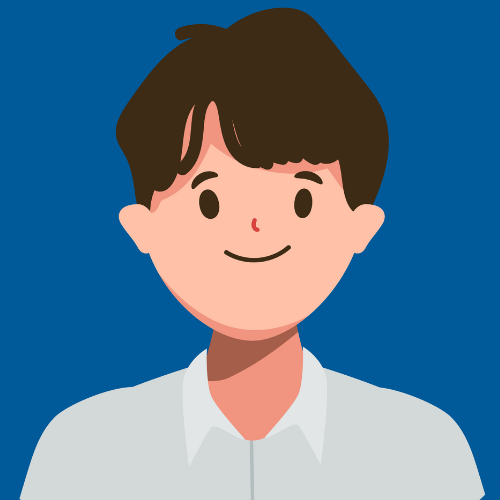
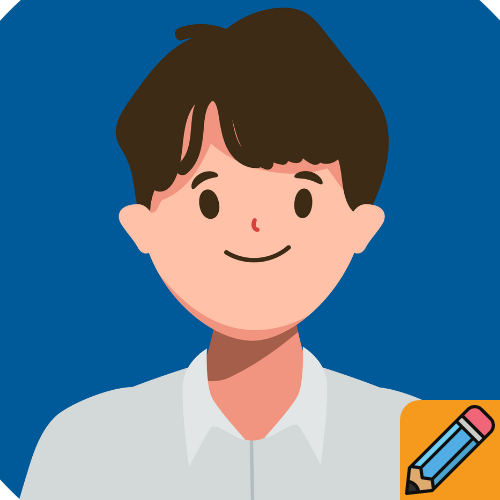
Finalised Achievements, Sign Up bug fixes
Finalised Profile page and Achievements component.

Design Achievement badges and uploaded to Firebase storage under /achievements. Added "pencil" icon to defaultProfilePicture design.

Sign-up page bug fixes, turn off case sensitivity for emails causing unintended mismatch, fixed visual issues on smaller devices for Name fields.

diff --git a/src/components/Achievements.tsx b/src/components/Achievements.tsx
@@ -1,45 +1,187 @@
-import React from "react";
-import { useTheme } from "./ThemeContext";
+import React, { useEffect, useState } from 'react';
+import { useTheme } from './ThemeContext';
 import { useAuthState } from "react-firebase-hooks/auth";
 import { auth, db } from "@/app/firebase/config";
-import { doc, setDoc, getDoc } from "firebase/firestore";
-import { User } from "firebase/auth";
-import { toast, ToastContainer } from "react-toastify";
-import { FaStar } from "react-icons/fa";
+import { doc, setDoc, getDoc, DocumentData } from "firebase/firestore";
+import { storage } from '@/app/firebase/config'; 
+import { ref, getDownloadURL } from 'firebase/storage';
+import { User } from 'firebase/auth';
+import Image from "next/image";
+
+const TOTAL_ACHIEVEMENTS = 13;
+
+const ACHIEVEMENTS = [
+  "createdAccount",
+  "tryToggleTheme",
+  "visitedAbout",
+  "visitedPrices",
+  "visitedPlayground",
+  "visitedNews",
+  "visitedLearn",
+  "visitedProfile",
+  "learnBTC",
+  "learnETH",
+  "learnXRP",
+  "learnBNB",
+  "learnCRO"
+];
+
+const ACHIEVEMENTS_TITLE : { [key: string]: string } = {
+  createdAccount: "PaperHans Allegiance",
+  tryToggleTheme: "Bravo Six, Going Dark",
+  visitedAbout: "Oh So Inspiring",
+  visitedPrices: "Stonks",
+  visitedPlayground: "Having Fun",
+  visitedNews: "The Noose",
+  visitedLearn: "Smarty Pants",
+  visitedProfile: "Who Are You?",
+  learnBTC: "BTC Expert",
+  learnETH: "ETH Expert",
+  learnXRP: "XRP Expert",
+  learnBNB: "BNB Expert",
+  learnCRO: "CRO Expert"
+};
+
+const ACHIEVEMENTS_DESCRIPTION : { [key: string]: string } = {
+  createdAccount: "Create a PaperHans Account.",
+  tryToggleTheme: "Try the Toggle Theme feature.",
+  visitedAbout: "Visit the About Us page.",
+  visitedPrices: "Visit the Prices page.",
+  visitedPlayground: "Visit the Playground page.",
+  visitedNews: "Visit the News page.",
+  visitedLearn: "Visit the Learn page.",
+  visitedProfile: "Visit the Profile page.",
+  learnBTC: "Complete the BTC lesson.",
+  learnETH: "Complete the ETH lesson.",
+  learnXRP: "Complete the XRP lesson.",
+  learnBNB: "Complete the BNB lesson.",
+  learnCRO: "Complete the CRO lesson."
+};
 
 const Achievements = () => {
   const { theme } = useTheme();
+  const [ user ] = useAuthState(auth)
+  const [ images, setImages ] = useState<{ [key: string]: string }>({});
+  const [ achievementsData, setAchievementsData ] = useState<DocumentData>();
 
-  const [user] = useAuthState(auth);
+  useEffect(() => {
+    const fetchImages = async () => {
+      const imageUrls: { [key: string]: string } = {};
+      for (const ach of ACHIEVEMENTS) {
+        try {
+        const storageRef = ref(storage, `achievements/${ach}.png`);
+        const url = await getDownloadURL(storageRef);
+        if (url)
+          imageUrls[ach] = url;
+        } catch (error) {
+          console.error('Error fetching image URL:', error);
+        }
+      }
+      setImages(imageUrls);
+    };
 
-  return (
-    <div
-      className={`p-4 rounded shadow-md w-full max-w-[30rem] ${
-        theme === "dark" ? "bg-gray-800 text-white" : "bg-white text-gray-800"
-      }`}
-    >
-      <h1 className="text-xl font-bold mb-4">TEMPORARY</h1>
-      <h1>TEMPORARY</h1>
+    const fetchAchievements = async () => {
+      try {
+        if (user) {
+          const achievementsDocRef = doc(db, "achievements", user.uid);
+          const achievementsDoc = await getDoc(achievementsDocRef);
+          if(achievementsDoc.exists()) {
+            const achievementsData = achievementsDoc.data()
+            console.log('Achievements Data:', achievementsData);
+            setAchievementsData(achievementsData)
+          }
+        }
+      } catch (error) {
+        console.error('Error fetching Achievements Data', error);
+      }
+    }
+
+    fetchImages();
+    fetchAchievements();
+  }, [user]);
+
+  return (<>
+  {/* HEADER */}
+    <div className={`p-4 rounded shadow-md w-full max-w-[30rem] ${theme === 'dark' ? 'bg-gray-800 text-white' : 'bg-white text-gray-800'}`}>
+      <div className="flex flex-col items-center">
+        <h1 className="text-3xl font-bold">
+          Achievements
+        </h1>
+        <div className="flex flex-row items-center space-x-2">
+          <h2 className="text-lg font-md">
+            Completed <strong>{achievementsData ? achievementsData.nAchievements : "Error Loading Data"} / {TOTAL_ACHIEVEMENTS}</strong>
+          </h2>
+        </div>
+      </div>
+
+      {/* ACHIEVEMENTS */}
+      {ACHIEVEMENTS.map((achievement) => (
+      <>
+        <div className="h-2"></div>
+        <div className={`p-4 rounded shadow-md w-full max-w-[30rem] ${theme === 'dark' ? 'bg-gray-700 text-white' : 'bg-gray-200 text-gray-800'}`}>
+          <div className="flex items-center space-x-5">
+            {achievementsData ? (
+              achievementsData[achievement] ? (
+              <>
+                <div className="relative w-24 h-24 overflow-hidden rounded-md">
+                  <Image src={images[achievement] || "/images/imageNotFound.png"} alt="Achievement Image" fill style={{ objectFit: 'cover'}}/>
+                </div>
+                
+                <div className="flex flex-col items-left">
+                      <h1 className="text-2xl font-bold">
+                      {ACHIEVEMENTS_TITLE[achievement]}
+                      </h1>
+                      <div className="flex flex-row items-center space-x-2">
+                        <h2 className="text-lg font-md">
+                          {ACHIEVEMENTS_DESCRIPTION[achievement]}
+                        </h2>
+                      </div>
+                      <h3 className="text-md font-md text-green-600">
+                        COMPLETED
+                      </h3>
+                </div>
+              </>):(
+              <>
+                <div className="relative w-24 h-24 overflow-hidden rounded-md">
+                  {images[achievement]?
+                    <Image src={images[achievement]} alt="Achievement Locked Image" fill style={{ objectFit: 'cover', filter: 'grayscale(100%)' }}/>
+                  :
+                    <Image src={"/images/imageNotFound.png"} alt="Achievement Locked Image" fill style={{ objectFit: 'cover' }}/>
+                  }
+                </div>
+                
+                <div className="flex flex-col items-left">
+                      <h1 className="text-2xl font-bold">
+                        {ACHIEVEMENTS_TITLE[achievement]}
+                      </h1>
+                      <div className="flex flex-row items-center space-x-2">
+                        <h2 className="text-lg font-md">
+                          {ACHIEVEMENTS_DESCRIPTION[achievement]}
+                        </h2>
+                      </div>
+                      <h3 className="text-md font-md text-red-600">
+                        ACHIEVEMENT LOCKED
+                      </h3>
+                </div>
+              </>)
+            ):(
+            <>
+              <h1 className="text-3xl font-bold text-red-600">
+                ERROR LOADING ACHIEVEMENTS: CHECK DATA
+              </h1>
+            </>)}
+          </div>
+        </div>
+      </>))}
     </div>
-  );
+    <div className="h-4"></div>
+  </>)
 };
 
-export const AchievementsHelper = async (user: User, achievement: string) => {
-  const achievementText: { [key: string]: string } = {
-    createdAccount: "Create a PaperHans Account.",
-    tryToggleTheme: "Try Toggle Theme.",
-    visitedAbout: "Visit About Us page.",
-    visitedPrices: "Visit Prices page.",
-    visitedPlayground: "Visit Playground page.",
-    visitedNews: "Visit News page.",
-    visitedProfile: "Visit Profile page.",
-    learnBTC: "Complete BTC lesson.",
-    learnETH: "Complete ETH lesson.",
-    learnXRP: "Complete XRP lesson.",
-    learnBNB: "Complete BNB lesson.",
-    learnCRO: "Complete CRO lesson.",
-  };
+export default Achievements;
 
+export const AchievementsHelper = async (user : User, achievement : string) => {
+  
   try {
     if (user) {
       const achievementsDocRef = doc(db, "achievements", user.uid);
@@ -54,6 +196,7 @@ export const AchievementsHelper = async (user: User, achievement: string) => {
           visitedPrices: false,
           visitedPlayground: false,
           visitedNews: false,
+          visitedLearn: false,
           visitedProfile: false,
           learnBTC: false,
           learnETH: false,
@@ -65,21 +208,14 @@ export const AchievementsHelper = async (user: User, achievement: string) => {
 
       const currentData = achievementsDoc.data();
       if (currentData && !currentData[achievement]) {
-        await setDoc(
-          achievementsDocRef,
-          {
-            ...currentData,
-            nAchievements: currentData ? currentData.nAchievements + 1 : 0,
-            [achievement]: true,
-          },
-          { merge: true }
-        );
-        toast.success("Achievement Unlocked! " + achievementText[achievement]);
+        await setDoc(achievementsDocRef, {
+          ...currentData,
+          nAchievements : (currentData ? currentData.nAchievements + 1 : 0),
+          [achievement]: true
+        }, { merge: true });
       }
     }
   } catch (e: any) {
     console.error(e);
   }
 };
-
-export default Achievements;

diff --git a/src/app/sign-up/page.tsx b/src/app/sign-up/page.tsx
@@ -7,8 +7,6 @@ import { useRouter } from "next/navigation";
 import { useTheme } from "../../components/ThemeContext";
 import { setDoc, doc, collection } from "firebase/firestore";
 import ErrorPopUp from "../../components/ErrorPopUp";
-import { toast } from "react-toastify";
-import { FaStar } from "react-icons/fa";
 
 const SignUp = () => {
   // Miscellaneous.
@@ -48,7 +46,7 @@ const SignUp = () => {
         confirmPassword === ""
       ) {
         throw new Error("Please fill in all the required fields.");
-      } else if (email !== confirmEmail) {
+      } else if (email.toLowerCase() !== confirmEmail.toLowerCase()) {
         throw new Error("Emails do not match!");
       } else if (password !== confirmPassword) {
         throw new Error("Passwords do not match!");
@@ -74,6 +72,7 @@ const SignUp = () => {
           visitedPrices: false,
           visitedPlayground: false,
           visitedNews: false,
+          visitedLearn: false,
           visitedProfile: false,
           learnBTC: false,
           learnETH: false,
@@ -81,7 +80,6 @@ const SignUp = () => {
           learnBNB: false,
           learnCRO: false,
         });
-        toast.success("Achievement Unlocked! Create a PaperHans account.");
       } else {
         // 400 Bad Request likely caused by using the same email.
         throw new Error("Email is already in use!");
@@ -112,7 +110,7 @@ const SignUp = () => {
         <h1 className="text-2xl mb-5">Sign Up</h1>
         {error && <ErrorPopUp message={error} onClose={() => setError("")} />}
         <div className="flex flex-wrap mb-4">
-          <div className="w-full md:w-1/2 pr-2">
+          <div className="w-1/2 pr-2">
             <input
               type="text"
               placeholder="First Name"
@@ -125,7 +123,7 @@ const SignUp = () => {
               }`}
             />
           </div>
-          <div className="w-full md:w-1/2 pl-2">
+          <div className="w-1/2 pl-2">
             <input
               type="text"
               placeholder="Last Name"

diff --git a/src/components/Profile.tsx b/src/components/Profile.tsx
@@ -48,19 +48,10 @@ const Profile = () => {
       }`}
     >
       <div className="flex items-center space-x-5">
-        <button
-          onClick={() => {
-            if (user) setNormalState(!normalState);
-          }}
-        >
-          <div className="relative w-24 h-24 overflow-hidden rounded-xl">
-            <Image
-              src={user?.photoURL || "/images/defaultProfilePhoto.png"}
-              alt="Profile Photo"
-              fill
-              style={{ objectFit: "cover" }}
-              className="rounded-xl"
-            />
+
+        <button onClick={() => { if(user) setNormalState(!normalState); }}>
+          <div className="relative w-24 h-24 overflow-hidden rounded-md">
+            <Image src={user?.photoURL || "/images/defaultProfilePhoto.png"} alt="Profile Photo" fill style={{ objectFit: 'cover' }}/>
           </div>
         </button>
 

diff --git a/src/app/learn/page.tsx b/src/app/learn/page.tsx
@@ -7,7 +7,6 @@ import { doc, getDoc, collection, getDocs } from "firebase/firestore"
 import { db } from "@/app/firebase/config"
 import LearnQuestions from "../../components/LearnQuestions";
 import LearnInfo from "../../components/LearnInfo";
-import { useRouter } from "next/navigation";
 import { useAuthState } from "react-firebase-hooks/auth";
 import { auth } from "@/app/firebase/config";
 import { AchievementsHelper } from "@/components/Achievements";
@@ -15,8 +14,15 @@ import SignInRedirect from "@/components/SignInRedirect";
 
 export default function Home() {
 
-  const router = useRouter();
   const[ user ] = useAuthState(auth)
+  useEffect(() => {
+    const loadPage = async () => {
+      if (user) {
+        await AchievementsHelper(user, 'visitedLearn');
+      }
+    };
+    loadPage();
+  }, [user]);
 
   interface Lesson {
     name: string;

diff --git a/src/app/profile/page.tsx b/src/app/profile/page.tsx
@@ -6,7 +6,7 @@ import Profile from "../../components/Profile";
 import Image from "next/image";
 import { useAuthState } from "react-firebase-hooks/auth";
 import { auth } from "@/app/firebase/config";
-import { AchievementsHelper } from "@/components/Achievements";
+import Achievements, { AchievementsHelper } from "@/components/Achievements";
 import SignInRedirect from "@/components/SignInRedirect";
 
 export default function Home() {
@@ -34,6 +34,8 @@ export default function Home() {
         </motion.div>
 
         <Profile ></Profile>
+
+        <Achievements></Achievements>
 
       </div>:<SignInRedirect></SignInRedirect>}
     </main>

diff --git a/src/app/news/page.tsx b/src/app/news/page.tsx
@@ -12,7 +12,6 @@ import SignInRedirect from "@/components/SignInRedirect";
 export default function Home() {
   const [user] = useAuthState(auth);
   useEffect(() => {
-    console.log("i fire once");
     const loadPage = async () => {
       if (user) {
         await AchievementsHelper(user, "visitedNews");
